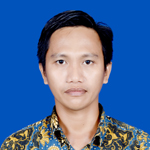
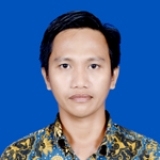
revisi foto

diff --git a/index.html b/index.html
@@ -34,7 +34,7 @@
 		</div>
 		<div class="sidebar">
 			<h3>Tentang Penulis</h3>
-			<img src="img/uzix.jpg" alt="uzix">
+			<img src="img/uzix.JPG" alt="uzix">
 			<p>Nama			: M Fauzi Habibi</p>
 			<p>Panggilan	: Uzix</p>
 			<p>Hobi			: MTB cycle</p>
@@ -48,7 +48,7 @@
 		
 	</div>
 	<div class="footer">
-		<p class="copy">Copyright 2015, uzix</p>
+		<p class="copy">Copyright 2023, uzix</p>
 	</div>
 </div>
 
